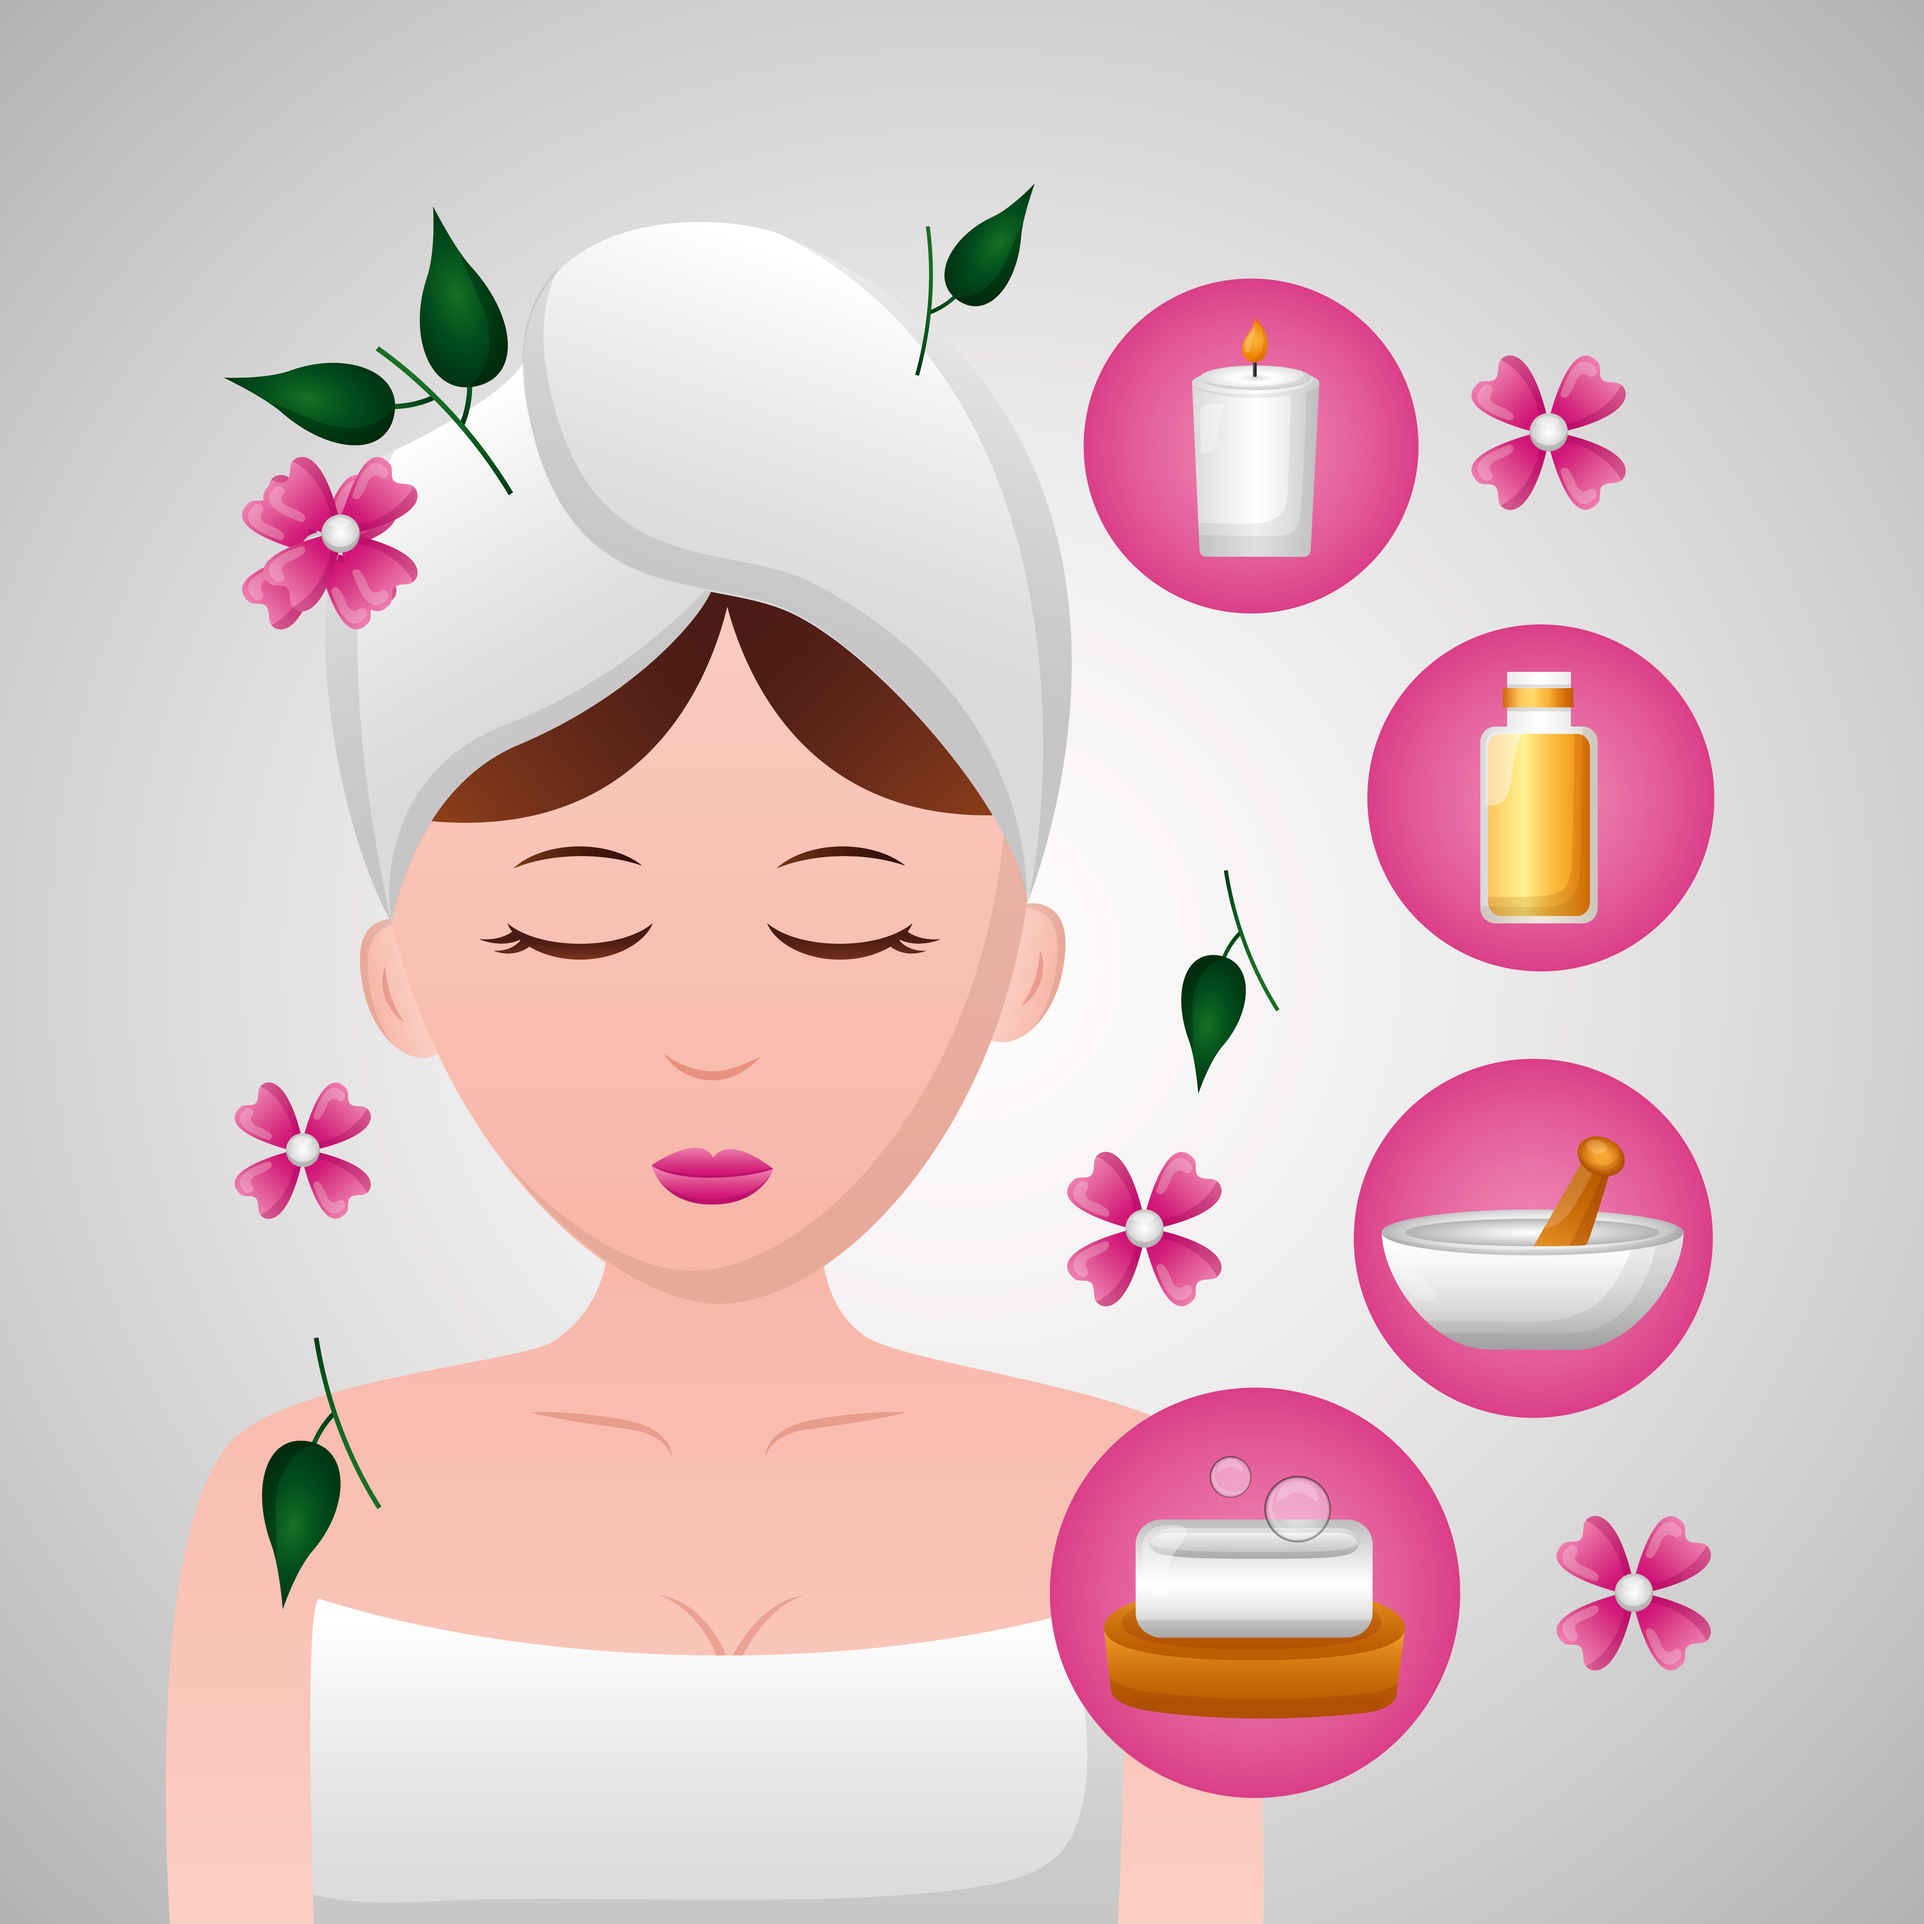
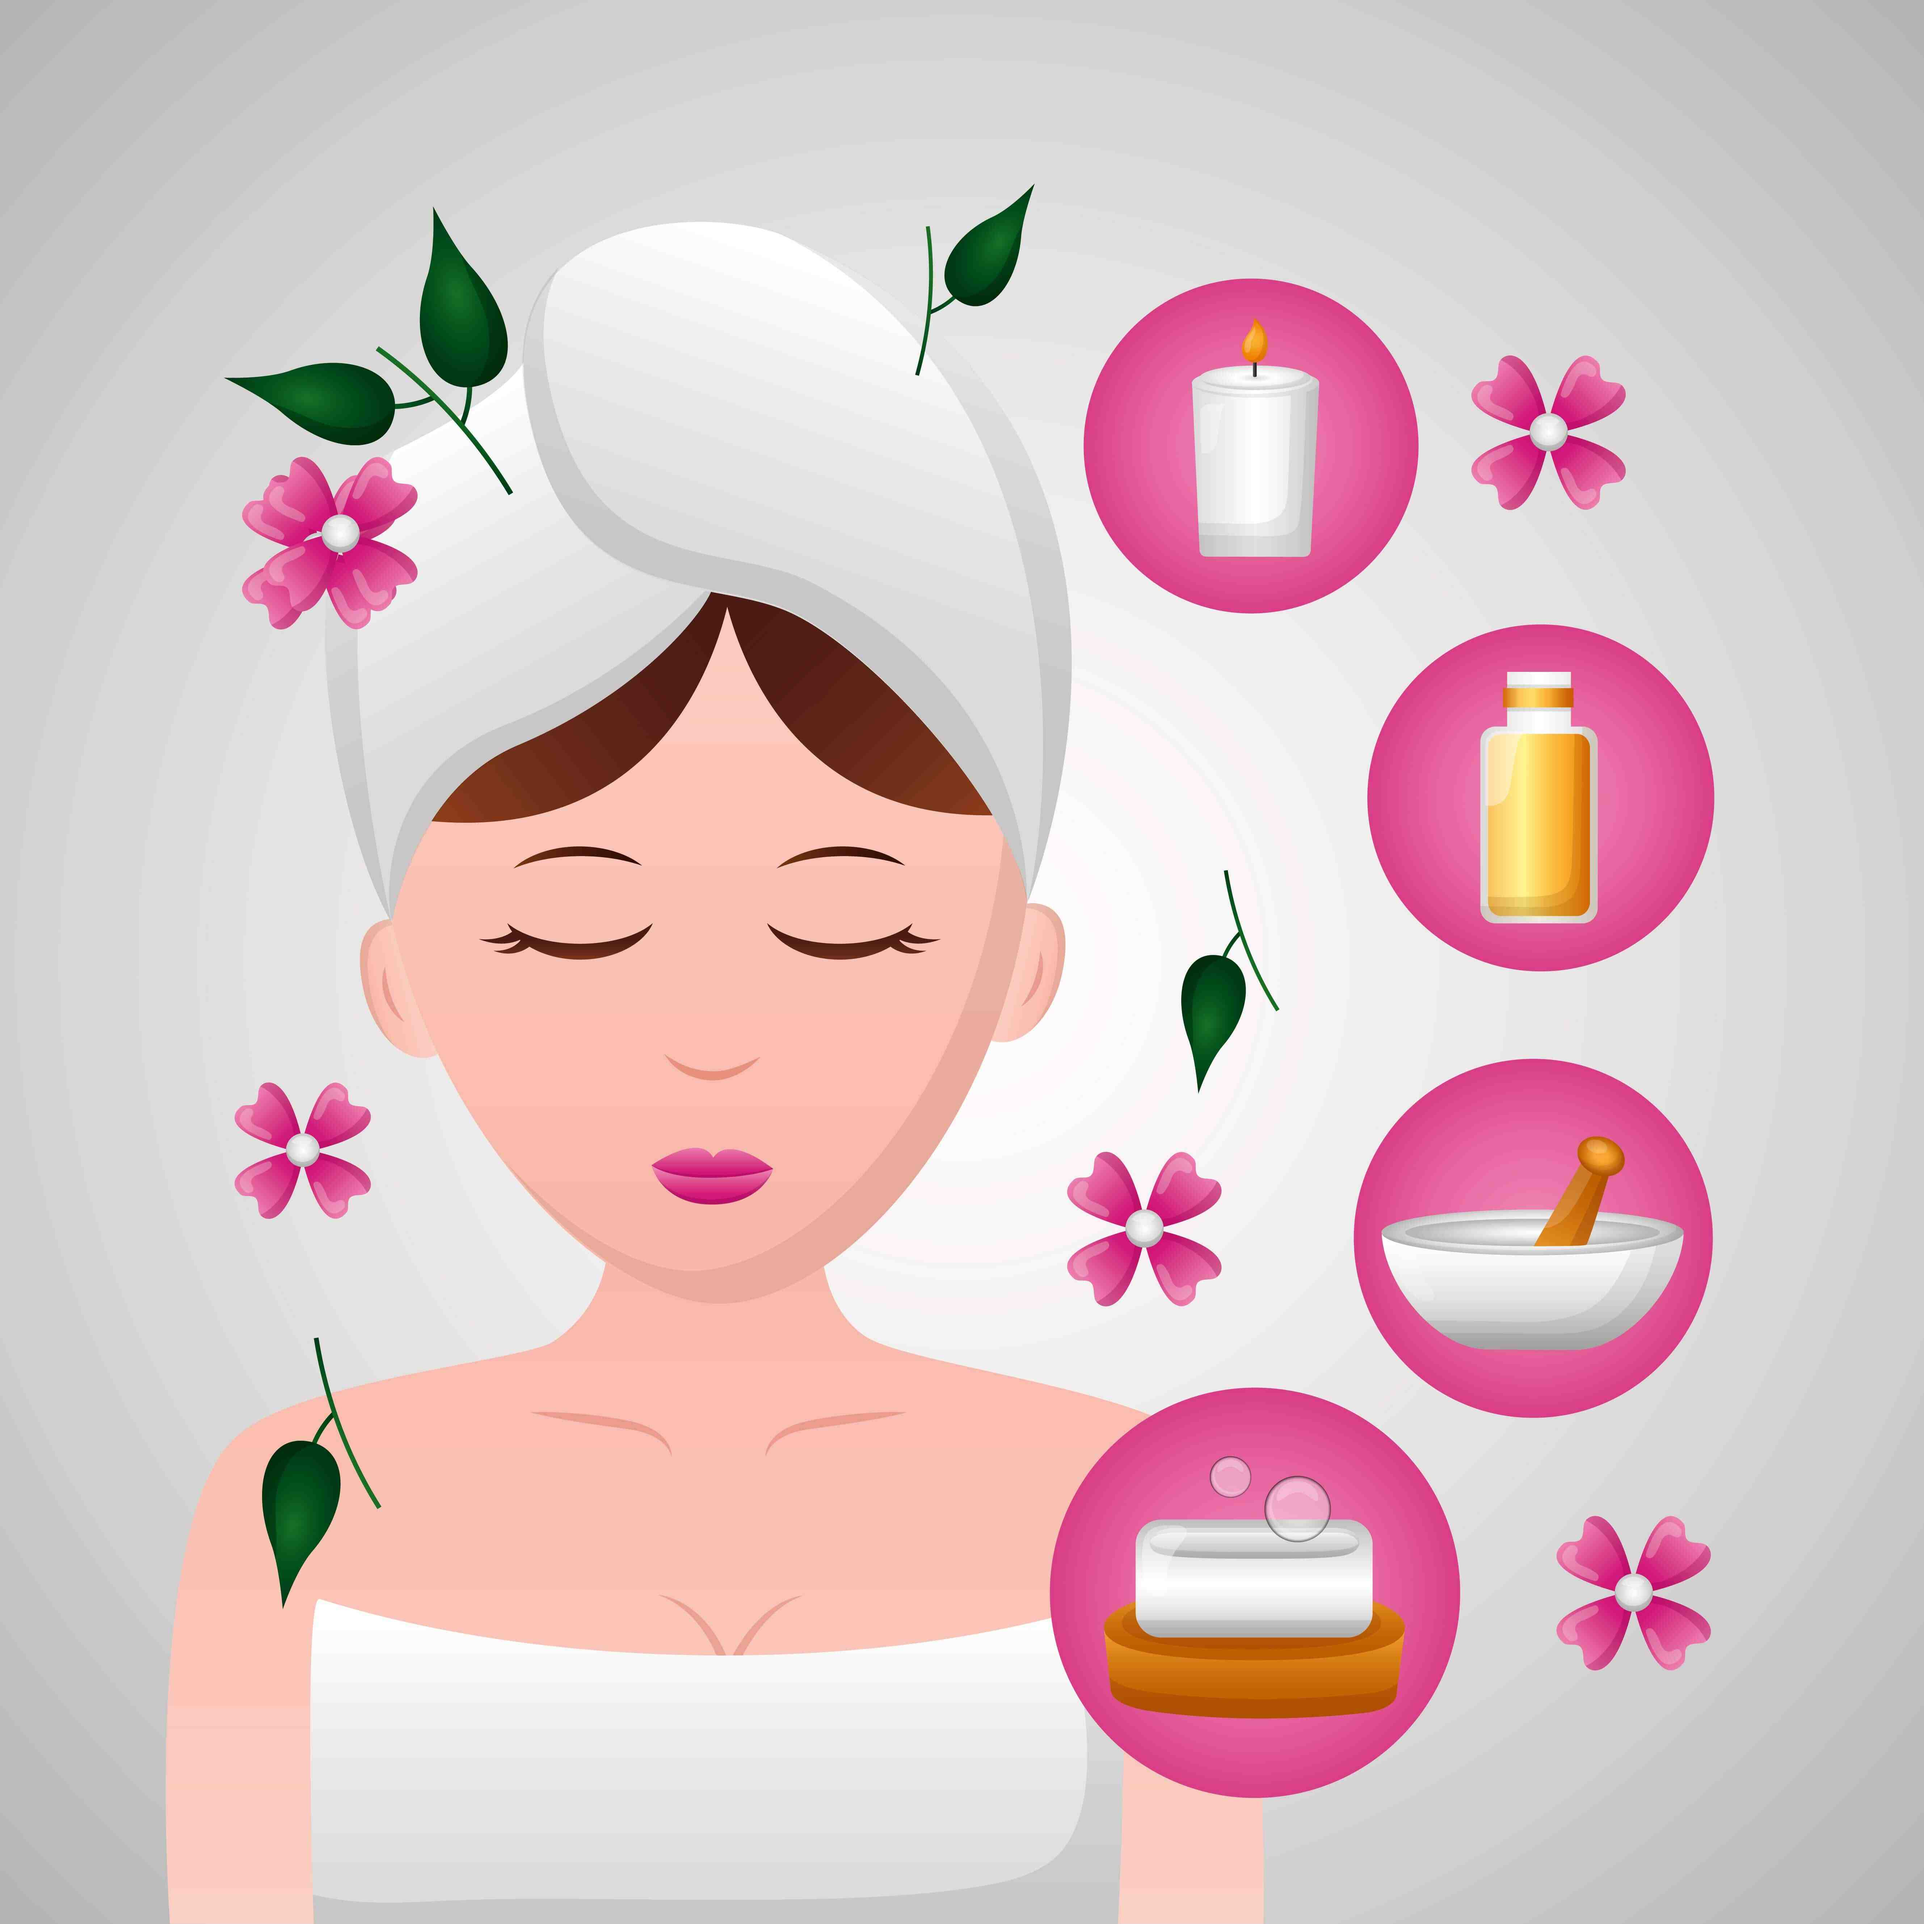
opt img

diff --git a/src/app/data/category.ts b/src/app/data/category.ts
@@ -46,7 +46,7 @@ export const category = [
     "category": "DIGESTIVE SUPPLEMENT",
     "categoryId": 8,
     "router": "digestive-supplement",
-    "img": "digestive-supplement.png"
+    "img": "digestive-supplement.jpg"
   },
   {
     "category": "ENERGY SUPPLEMENT",
